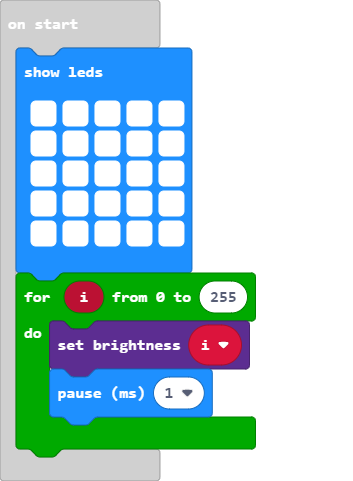
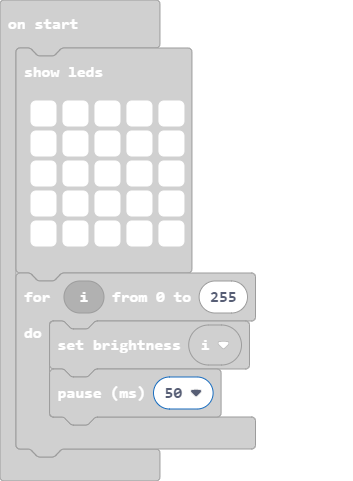
Update main.blocks, main.ts

diff --git a/main.ts b/main.ts
@@ -7,7 +7,7 @@ basic.showLeds(`
     `)
 for (let i = 0; i <= 255; i++) {
     led.setBrightness(i)
-    basic.pause(1)
+    basic.pause(50)
 }
 basic.forever(function () {
 	
